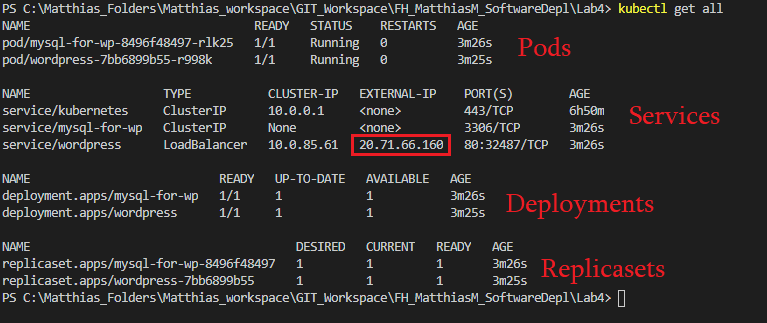
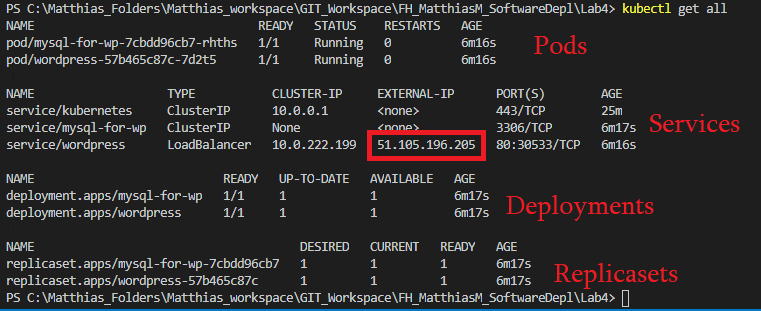
finished again

diff --git a/Lab4/README.md b/Lab4/README.md
@@ -1,5 +1,7 @@
 Lab 4:
 
+IP Adresse : http://51.105.196.205/
+
 Nachdem die azure kubernetes cli heruntergeladen wurde(az aks install-cli)
 Und die credentials gegetted wurden(az aks get-credentials --resource-group fhwn20 --name fhwn20)
 Kann direkt gestartet werden(kubectl befehle werden nun automatisch auf unser angelegtes azure Kubernetes Service angewandt).
@@ -27,8 +29,8 @@ In Azure können unsere uploads nun auch unter "Workloads", sowie "Dienste und e
 ![workloads](https://github.com/MatthiasMan/FH_MatthiasM_SoftwareDepl/blob/main/Lab4/workloads.PNG?raw=true)
 ![dienste](https://github.com/MatthiasMan/FH_MatthiasM_SoftwareDepl/blob/main/Lab4/dienste.PNG?raw=true)
 
-Nun kann die Externe IP-Adresse unseres wordpress Services besucht werden. In meinem Fall ist dies:
+Nun kann die Externe IP-Adresse unseres wordpress Services besucht werden:
  
-20.71.66.160
+http://51.105.196.205/
 
 ![dienste](https://github.com/MatthiasMan/FH_MatthiasM_SoftwareDepl/blob/main/Lab4/Screenshot.PNG?raw=true)
